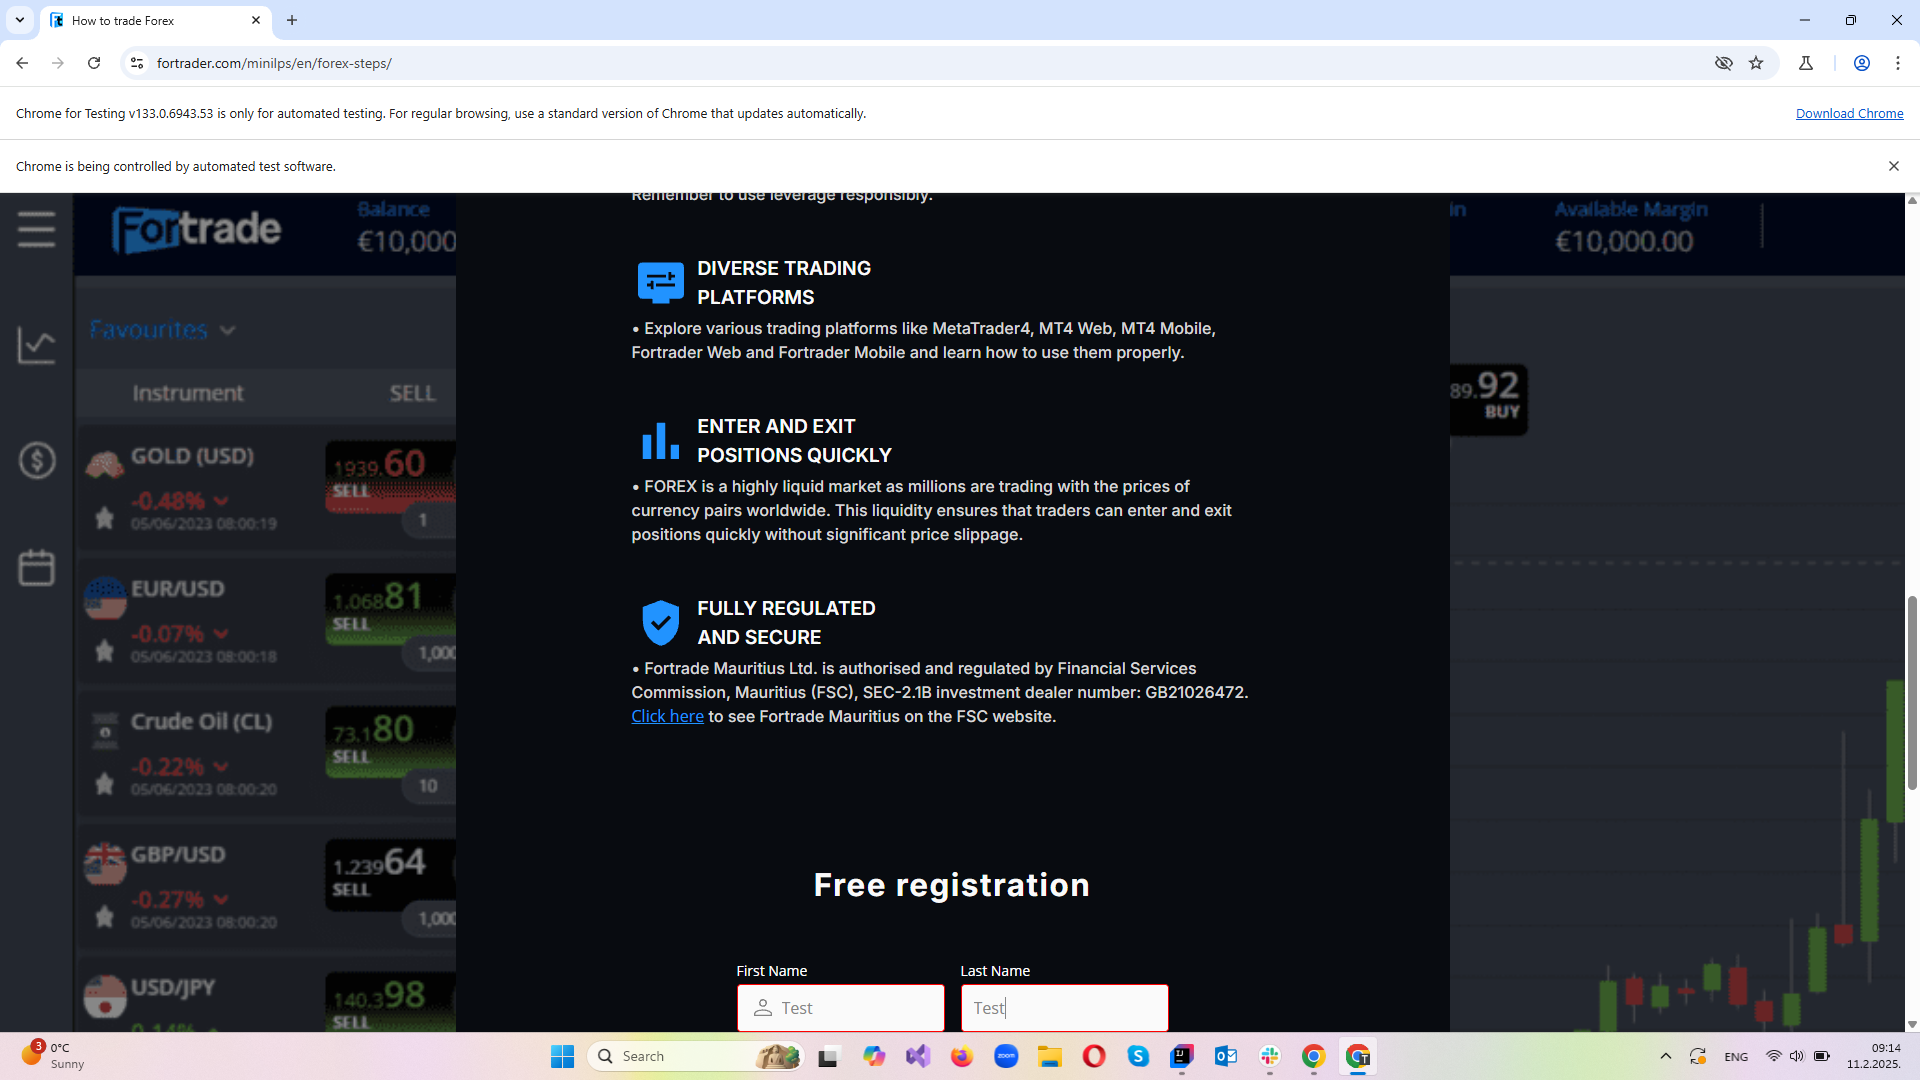
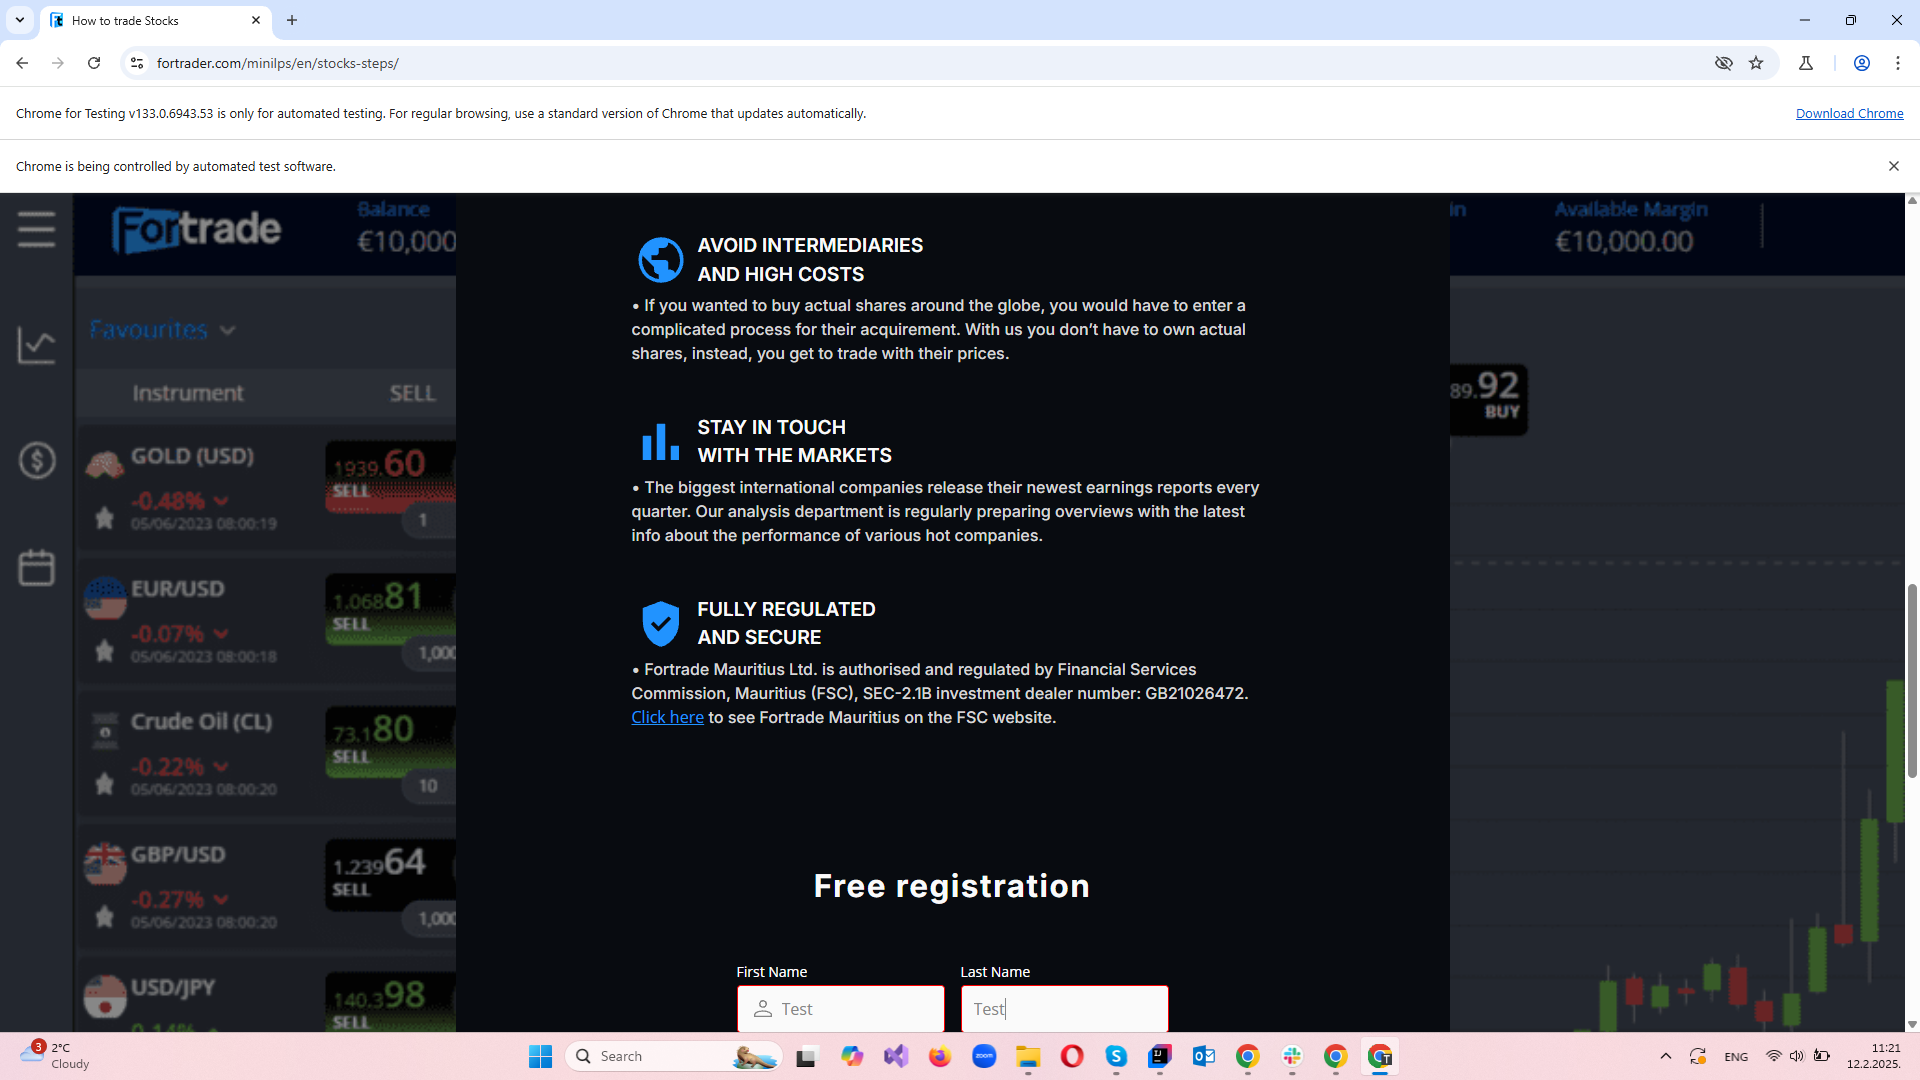
New landing page (Stoks steps) added - test cases passed successfully.

diff --git a/src/test/java/TestsFortradeR/stoks_Steps_Lp.java b/src/test/java/TestsFortradeR/stoks_Steps_Lp.java
@@ -1,0 +1,206 @@
+package TestsFortradeR;
+
+import Pages.CrmPage;
+import Pages.FortradeRPage;
+import Pages.Mailinator;
+import faker.TestData;
+import org.openqa.selenium.By;
+import org.testng.Assert;
+import org.testng.annotations.AfterMethod;
+import org.testng.annotations.BeforeMethod;
+import org.testng.annotations.Test;
+
+import java.awt.*;
+import java.io.IOException;
+
+
+public class stoks_Steps_Lp extends BaseTestFortradeR {
+
+
+    @BeforeMethod
+    public void setUp() {
+        baseSetup("Chrome", "133");
+        FortradeRPage fortradeRPage = new FortradeRPage(driver);
+        fortradeRPage.clickStartBtn();
+    }
+
+    @AfterMethod
+    public void tearDown() {
+        baseTearDown();
+    }
+
+    @Test
+    public void urlAssert() throws IOException, AWTException {
+        FortradeRPage fortradeRPage = new FortradeRPage(driver);
+        fortradeRPage.assertURL("https://www.fortrader.com/minilps/en/stocks-steps/");
+        //last element uploaded - input field with attribute value='quick'
+        String quickValue = driver.findElement(By.xpath("//form[@class='LC-QuickRegistrationMultiTraderWithVerify" +
+                "PhoneWidget']/input[@value='quick']")).getAttribute("value");
+        Assert.assertEquals("quick", quickValue);
+        fortradeRPage.takeScreenshot("Page url - FortradeR - verified");
+    }
+
+    @Test
+    public void demoAccountRegistration() throws IOException, AWTException {
+        String email = TestData.emailGenerator();
+        String phoneNumber = TestData.phoneNumberGenerator();
+        FortradeRPage fortradeRPage = new FortradeRPage(driver);
+        fortradeRPage.successfullyRegistration("Testq", "Testa", email, "381", phoneNumber);
+        fortradeRPage.assertURL("https://ready.fortrade.com/#chartticket");
+        fortradeRPage.clickDenyBtn();
+        fortradeRPage.clickIAmNotSerBtn();
+        fortradeRPage.clickMenuBtn();
+        fortradeRPage.checkRegulation();
+        fortradeRPage.takeScreenshot("Demo account registration - FortradeR");
+    }
+
+    @Test
+    public void unsuccessfullyDemoAccountRegistration() throws IOException, AWTException {
+        FortradeRPage fortradeRPage = new FortradeRPage(driver);
+        fortradeRPage.unsuccessfullyRegistrationWithWrongData("123", "456", "345342=--=/.,><",
+                "123456", "1234567890123456");
+        fortradeRPage.assertErrorMessages();
+        fortradeRPage.assertColor("red");
+        fortradeRPage.takeScreenshot("Unsuccessfully demo account registration - FortradeR", fortradeRPage.submitButton);
+    }
+
+    @Test
+    public void emptyDemoAccountRegistration() throws IOException, AWTException {
+        FortradeRPage fortradeRPage = new FortradeRPage(driver);
+        fortradeRPage.unsuccessfullyRegistrationWithWrongData("", "", "", "", "");
+        fortradeRPage.assertErrorMessages();
+        fortradeRPage.assertColor("red");
+        fortradeRPage.takeScreenshot("Demo account registration - no data - Fortrader", fortradeRPage.submitButton);
+    }
+
+    @Test
+    public void alreadyRegisteredAccountTest() throws IOException, AWTException {
+        String email = TestData.emailGenerator();
+        String phoneNumber = TestData.phoneNumberGenerator();
+        FortradeRPage fortradeRPage = new FortradeRPage(driver);
+        fortradeRPage.successfullyRegistration("Testq", "Testa", email, "381", phoneNumber);
+        driver.get("https://www.fortrader.com/minilps/en/stocks-steps/");
+        fortradeRPage.alreadyRegisteredAccount("Testq", "Testa", email, "381", phoneNumber);
+        fortradeRPage.assertPopUpForAlreadyRegisteredAccount("Already registered account - FortradeR - pop-up");
+    }
+
+    @Test
+    public void checkingTagsInTheCrm() throws IOException, AWTException {
+        String email = TestData.emailGenerator();
+        String phoneNumber = TestData.phoneNumberGenerator();
+        driver.get("https://www.fortrader.com/minilps/en/stocks-steps/?tg=ivanA1389&tag1=ivanB@1389&tag2=ivanL1389&" +
+                "tag3=ivanM1389&gid=ivanC@1389&G_GEO=ivanD1389&G_GEOint=ivanE1389&G_Device=ivanF1389&G_DeviceModel=" +
+                "ivanG1389&G_AdPos=ivanH1389&g_Track=ivanI1389&Track=ivanj1389&gclid=ivanK1389");
+        FortradeRPage fortradeRPage = new FortradeRPage(driver);
+        fortradeRPage.successfullyRegistration("Testq", "Testa", email, "381", phoneNumber);
+        String urlCrm = System.getenv("URLForCrm");
+        String usernameCrm = System.getenv("UsernameForCrm");
+        String passwordCrm = System.getenv("PasswordForCrm");
+        driver.get(urlCrm);
+        CrmPage crmPage = new CrmPage(driver);
+        crmPage.checkCrmData(usernameCrm, passwordCrm, email, "Testq Testa", "FSC");
+        crmPage.takeScreenshot("Account details Fortrader page", crmPage.accFullNameCrm);
+        crmPage.checkCrmTags();
+        crmPage.takeScreenshot("Marketing tags Fortrader page", crmPage.accFullNameCrm);
+    }
+
+    @Test
+    public void sameFNameAndLName() throws IOException, AWTException {
+        FortradeRPage fortradeRPage = new FortradeRPage(driver);
+        fortradeRPage.enterFirstName("Test");
+        fortradeRPage.enterLastName("Test");
+        fortradeRPage.clickElement(fortradeRPage.firstName, "on first name field");
+        fortradeRPage.clickElement(fortradeRPage.lastName, "on last name field");
+        fortradeRPage.assertSameNameErrorMsgs();
+        fortradeRPage.takeScreenshot("Error messages for the same first and last name - FortradeR");
+    }
+
+    @Test
+    public void checkingForLogoClickability() throws IOException, AWTException {
+        FortradeRPage fortradeRPage = new FortradeRPage(driver);
+        fortradeRPage.checkLogoClickability("https://www.fortrader.com/minilps/en/stocks-steps/");
+        fortradeRPage.takeScreenshot("Logo is not clickable - FortradeR");
+    }
+
+    @Test
+    public void checkForCountryCodeErrorMessage() throws IOException, AWTException {
+        FortradeRPage fortradeRPage = new FortradeRPage(driver);
+        fortradeRPage.checkCountryCodeErrorMessage("01852833kdkd");
+        fortradeRPage.takeScreenshot("Country code error message - FortradeR");
+    }
+
+    @Test
+    public void emailIsReceivedSuccessfully() throws IOException, AWTException {
+        String email = TestData.emailGenerator();
+        String phoneNumber = TestData.phoneNumberGenerator();
+        FortradeRPage fortradeRPage = new FortradeRPage(driver);
+        fortradeRPage.successfullyRegistration("Testq", "Testa", email, "381", phoneNumber);
+        driver.get("https://www.mailinator.com/");
+        Mailinator mailinator = new Mailinator(driver);
+        mailinator.findEmail(email);
+        mailinator.zoomOutMethod();
+        mailinator.takeScreenshot("Email is received successfully - FortradeR", mailinator.emailTitle);
+    }
+
+    @Test
+    public void privacyPolicyTest() throws IOException, AWTException, InterruptedException {
+        FortradeRPage fortradeRPage = new FortradeRPage(driver);
+        fortradeRPage.clickOnSelectedLink(fortradeRPage.privacyPolicyLinkBy, fortradeRPage.privacyPolicyFSC,
+                "Privacy policy");
+        fortradeRPage.rightClickOnSelectedLink(fortradeRPage.privacyPolicyLinkBy, fortradeRPage.privacyPolicyFSC);
+    }
+
+    @Test
+    public void termsAndConditionsTest() throws IOException, AWTException, InterruptedException {
+        FortradeRPage fortradeRPage = new FortradeRPage(driver);
+        fortradeRPage.clickOnSelectedLink(fortradeRPage.termsAndConditionsLinkBy, fortradeRPage.termsAndConditionsFSC,
+                "Terms and conditions");
+        fortradeRPage.rightClickOnSelectedLink(fortradeRPage.termsAndConditionsLinkBy, fortradeRPage.termsAndConditionsFSC);
+    }
+
+    @Test
+    public void howToUnsubscribeTest() throws IOException, AWTException, InterruptedException {
+        FortradeRPage fortradeRPage = new FortradeRPage(driver);
+        fortradeRPage.clickOnSelectedLink(fortradeRPage.clickHereLinkBy, fortradeRPage.howToUnsubscribeURL,
+                "How to unsubscribe");
+        fortradeRPage.rightClickOnSelectedLink(fortradeRPage.clickHereLinkBy, fortradeRPage.howToUnsubscribeURL);
+    }
+
+    @Test
+    public void footerPrivacyPolicy() throws IOException, InterruptedException, AWTException {
+        FortradeRPage fortradeRPage = new FortradeRPage(driver);
+        fortradeRPage.scrollToAnElement(driver.findElement(By.xpath("//div[@class='fscClass']//a[contains" +
+                "(text(), 'Privacy policy')]")));
+        fortradeRPage.clickOnSelectedLink(fortradeRPage.footerPrivacyPolicyLinkBy, fortradeRPage.privacyPolicyFSCFooter,
+                "Privacy policy footer - FortradeR");
+        fortradeRPage.rightClickOnSelectedLink(fortradeRPage.footerPrivacyPolicyLinkBy, fortradeRPage.privacyPolicyFSCFooter);
+    }
+
+    @Test
+    public void fscRegulationTest() throws IOException, InterruptedException, AWTException {
+        FortradeRPage fortradeRPage = new FortradeRPage(driver);
+        fortradeRPage.scrollToAnElement(driver.findElement(By.xpath("//a[text()=' GB21026472']")));
+        fortradeRPage.clickOnSelectedLink(fortradeRPage.fscRegulationLinkBy, fortradeRPage.fscLink,
+                "Financial Services Commission page");
+        fortradeRPage.scrollToAnElement(driver.findElement(By.xpath("//a[text()=' GB21026472']")));
+        fortradeRPage.rightClickOnSelectedLink(fortradeRPage.fscRegulationLinkBy, fortradeRPage.fscLink);
+    }
+
+    @Test
+    public void infoLink() throws IOException, AWTException, InterruptedException {
+        FortradeRPage fortradeRPage = new FortradeRPage(driver);
+        fortradeRPage.clickOnMailLink("info");
+        Thread.sleep(1000);
+        fortradeRPage.takeScreenshot("FortradeR - info redirection");
+        fortradeRPage.closeOutlook();
+    }
+
+    @Test
+    public void supportLink() throws IOException, AWTException, InterruptedException {
+        FortradeRPage fortradeRPage = new FortradeRPage(driver);
+        fortradeRPage.clickOnMailLink("support");
+        Thread.sleep(1000);
+        fortradeRPage.takeScreenshot("FortradeR - support redirection");
+        fortradeRPage.closeOutlook();
+    }
+}

diff --git a/src/main/java/Pages/FortradePage.java b/src/main/java/Pages/FortradePage.java
@@ -82,27 +82,41 @@ public class FortradePage extends BasePage {
     public WebElement loginToFotrade;
 
     public By privacyPolicyLinkBy = By.xpath("//div[@class='form-wrapper']//a[text()='Privacy Policy']");
+
     public By termsAndConditionsLinkBy = By.xpath("//div[@class='form-wrapper']//a[contains(text(), 'Terms and Conditions')]");
+
     public By clickHereLink = By.xpath("//div[@class='MarketingMaterials2']//a[text()='click here']");
+
     public By alreadyHaveAnAccountLinkBy = By.xpath("//*[@class='alreadyHaveAcc']//a[contains(text(), 'Already have an account?')]");
+
     public By contactUsLinkBy = By.xpath("//*[@class='needHelp']//a[contains(text(), 'Contact Us')]");
 
     public By facebookLinkBy = By.xpath("//a[@class='facebook-links']");
+
     public By instagramLinkBy = By.xpath("//a[@href='https://www.instagram.com/fortrade_online_trading/?hl=en']");
+
     public By youtubeLinkBy = By.xpath("//a[@href='https://www.youtube.com/channel/UCNCrGhrDTEN1Hx_20-kFxwg']");
 
     public By supportLinkBy = By.xpath("//a[text()='support@fortrade.com']");
+
     public By footerRiskWarningLinkBy = By.xpath("//div[@class='footerRiskDisclaimer']//a[contains(text(), 'Risk warning')]");
+
     public By footerPrivacyPolicyLinkBy = By.xpath("//div[@class='footerRiskDisclaimer']//a[contains(text(), 'Privacy policy')]");
 
     public By fcaRegulationLinkBy = By.xpath("//a[text()='FRN: 609970']");
+
     public By ciroRegulationLinkBy = By.xpath("//a[text()='CRN: BC1148613']");
+
     public By asicRegulationLinkBy = By.xpath("//a[text()='ABN: 33 614 683 831 | AFSL: 493520']");
+
     public By cysecRegulationLinkBy = By.xpath("//a[text()='CIF license number 385/20']");
+
     public By fscRegulationLinkBy = By.xpath("//a[text()=' GB21026472']");
 
     public By fsgDocument = By.xpath("//div[@class='footerRiskDisclaimer']//div[@class='asicClass']//a[contains(text(),'(FSG)')]");
+
     public By pdsDocument = By.xpath("//div[@class='footerRiskDisclaimer']//div[@class='asicClass']//a[contains(text(),'(PDS)')]");
+
     public By tmdDocument = By.xpath("//div[@class='footerRiskDisclaimer']//div[@class='asicClass']//a[contains(text(),'(TMD)')]");
 
     String[] errorMessages = {"Please enter all your given first name(s)",

diff --git a/src/main/java/Pages/FortradeRPage.java b/src/main/java/Pages/FortradeRPage.java
@@ -53,8 +53,17 @@ public class FortradeRPage extends BasePage {
     @FindBy(xpath = "//div[@data-cmd='menu']")
     public WebElement menuBtn;
 
+    @FindBy(xpath = "//div[@id='platformRegulation']")
+    public WebElement regulationMsg;
+
     @FindBy(xpath = "//button[@class='heroBtn']")
     public WebElement startBtn;
+
+    @FindBy(xpath = "//button[@id='CybotCookiebotDialogBodyButtonDecline']")
+    public WebElement denyBtn;
+
+    @FindBy(xpath = "//div[@class='exitButton']")
+    public WebElement iAmNotSerResBtn;
 
     public By privacyPolicyLinkBy = By.xpath("//div[@class='fscClass']//a[text()='Privacy Policy']");
 
@@ -109,7 +118,7 @@ public class FortradeRPage extends BasePage {
     public String privacyPolicyFSCFooter = "https://www.fortrade.com/wp-content/uploads/legal/FSC/Fortrade_MA_Privacy_Policy.pdf";
 
     // Financial Services Commission, Mauritius (FSC) link
-    public String fscLink = "https://www.fscmauritius.org/en/supervision/register-of-licensees/register-of-licensees-details?licence_no=GB21026472&key=&cat=_GB&code=";
+    public String fscLink = "https://opr.fscmauritius.org/ords/opr/r/fsc-opr/fsc-online-public-register-opr";
 
     public String fbURL = "https://www.facebook.com/Fortrade.International";
 
@@ -335,5 +344,20 @@ public class FortradeRPage extends BasePage {
     public void clickStartBtn()
     {
         clickElement(startBtn,"Start button");
+    }
+
+    public void clickDenyBtn() {
+        clickElement(denyBtn, "deny cookies button");
+    }
+
+    public void clickIAmNotSerBtn(){
+        clickElement(iAmNotSerResBtn,"I am not Serbian resident text");
+    }
+
+    public void checkRegulation() {
+        if(regulationMsg.isDisplayed()) {
+            String actualText = getText(regulationMsg, "regulation text");
+            Assert.assertEquals(actualText, "Broker: Fortrade (Mauritius) Ltd (FSC)");
+        }
     }
 }

diff --git a/src/test/java/TestsFortradeR/BaseTestFortradeR.java b/src/test/java/TestsFortradeR/BaseTestFortradeR.java
@@ -11,7 +11,7 @@ public class BaseTestFortradeR {
     public void baseSetup(String browser, String version) {
         driverManager = DriverManagerFactory.getDriverManager(browser);
         driver = driverManager.getWebDriver(version);
-        driver.get("https://www.fortrader.com/minilps/en/forex-steps/");
+        driver.get("https://www.fortrader.com/minilps/en/stocks-steps/");
     }
 
     public void baseTearDown(){
